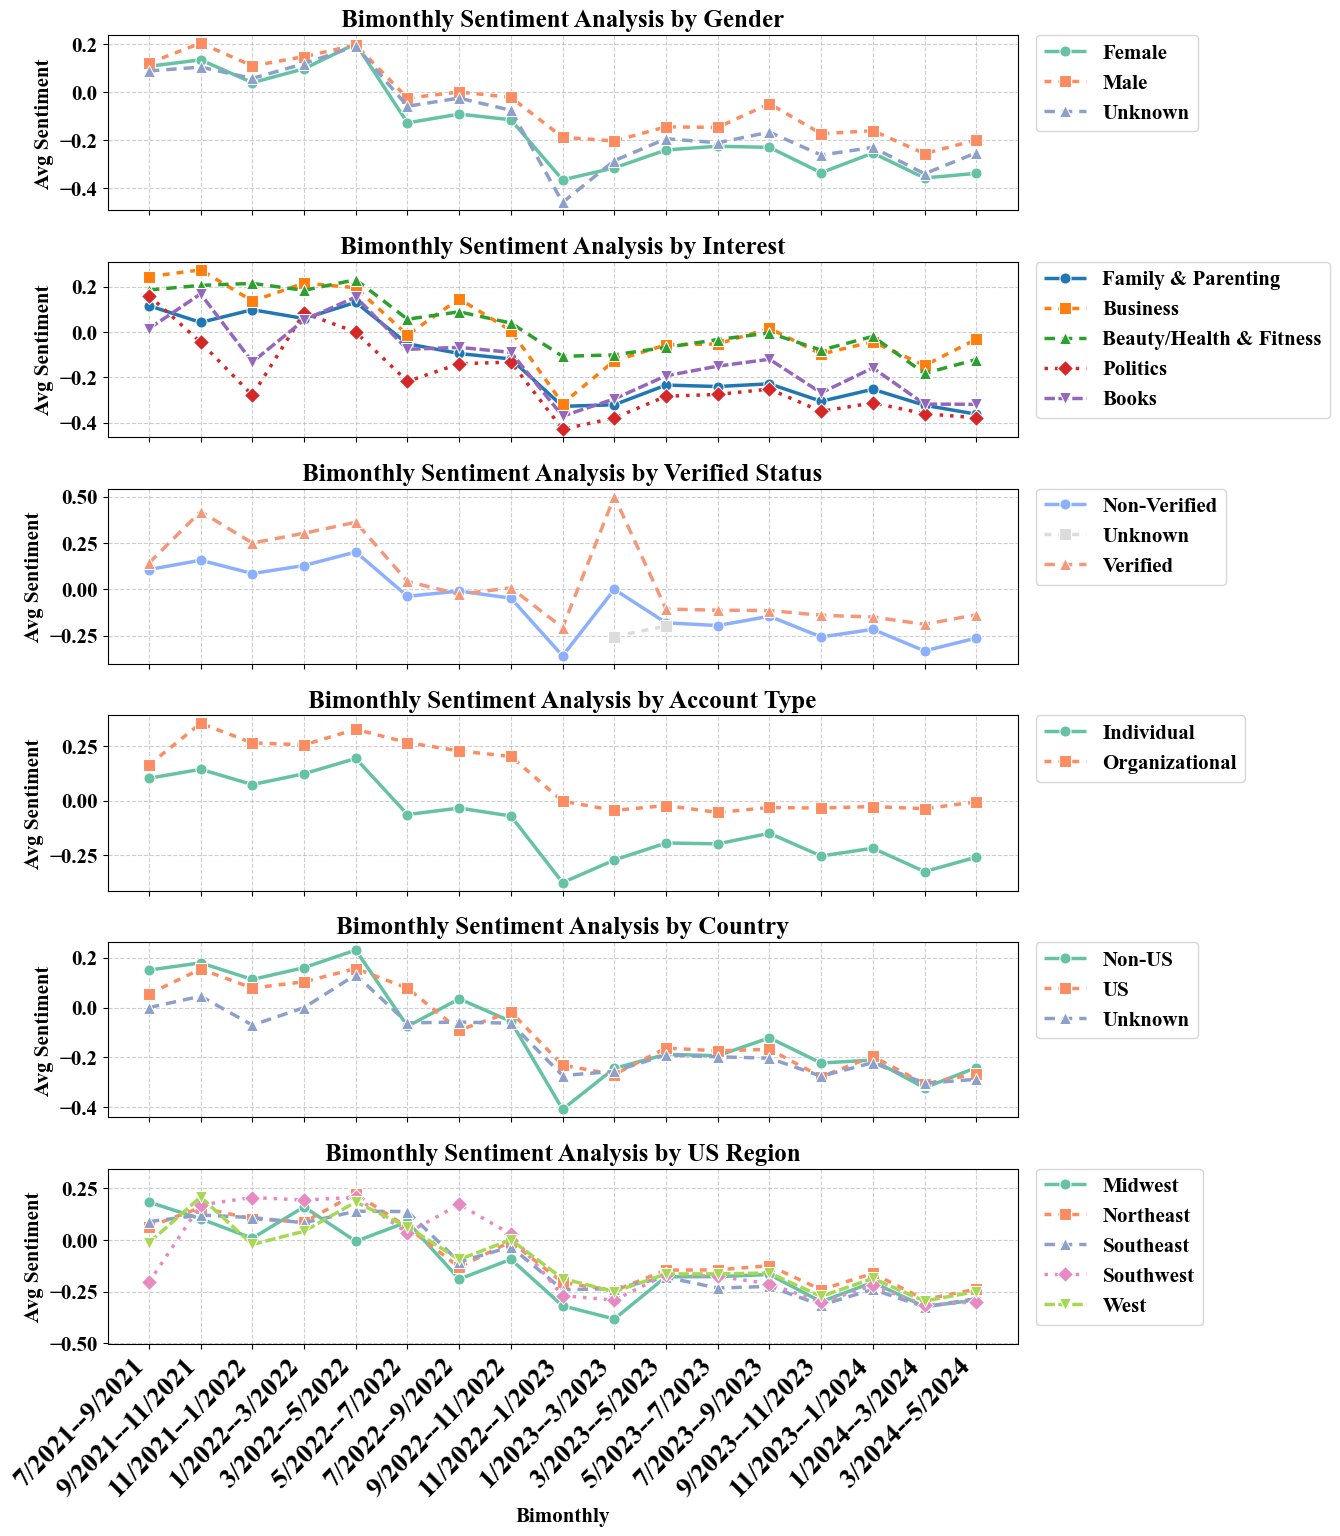
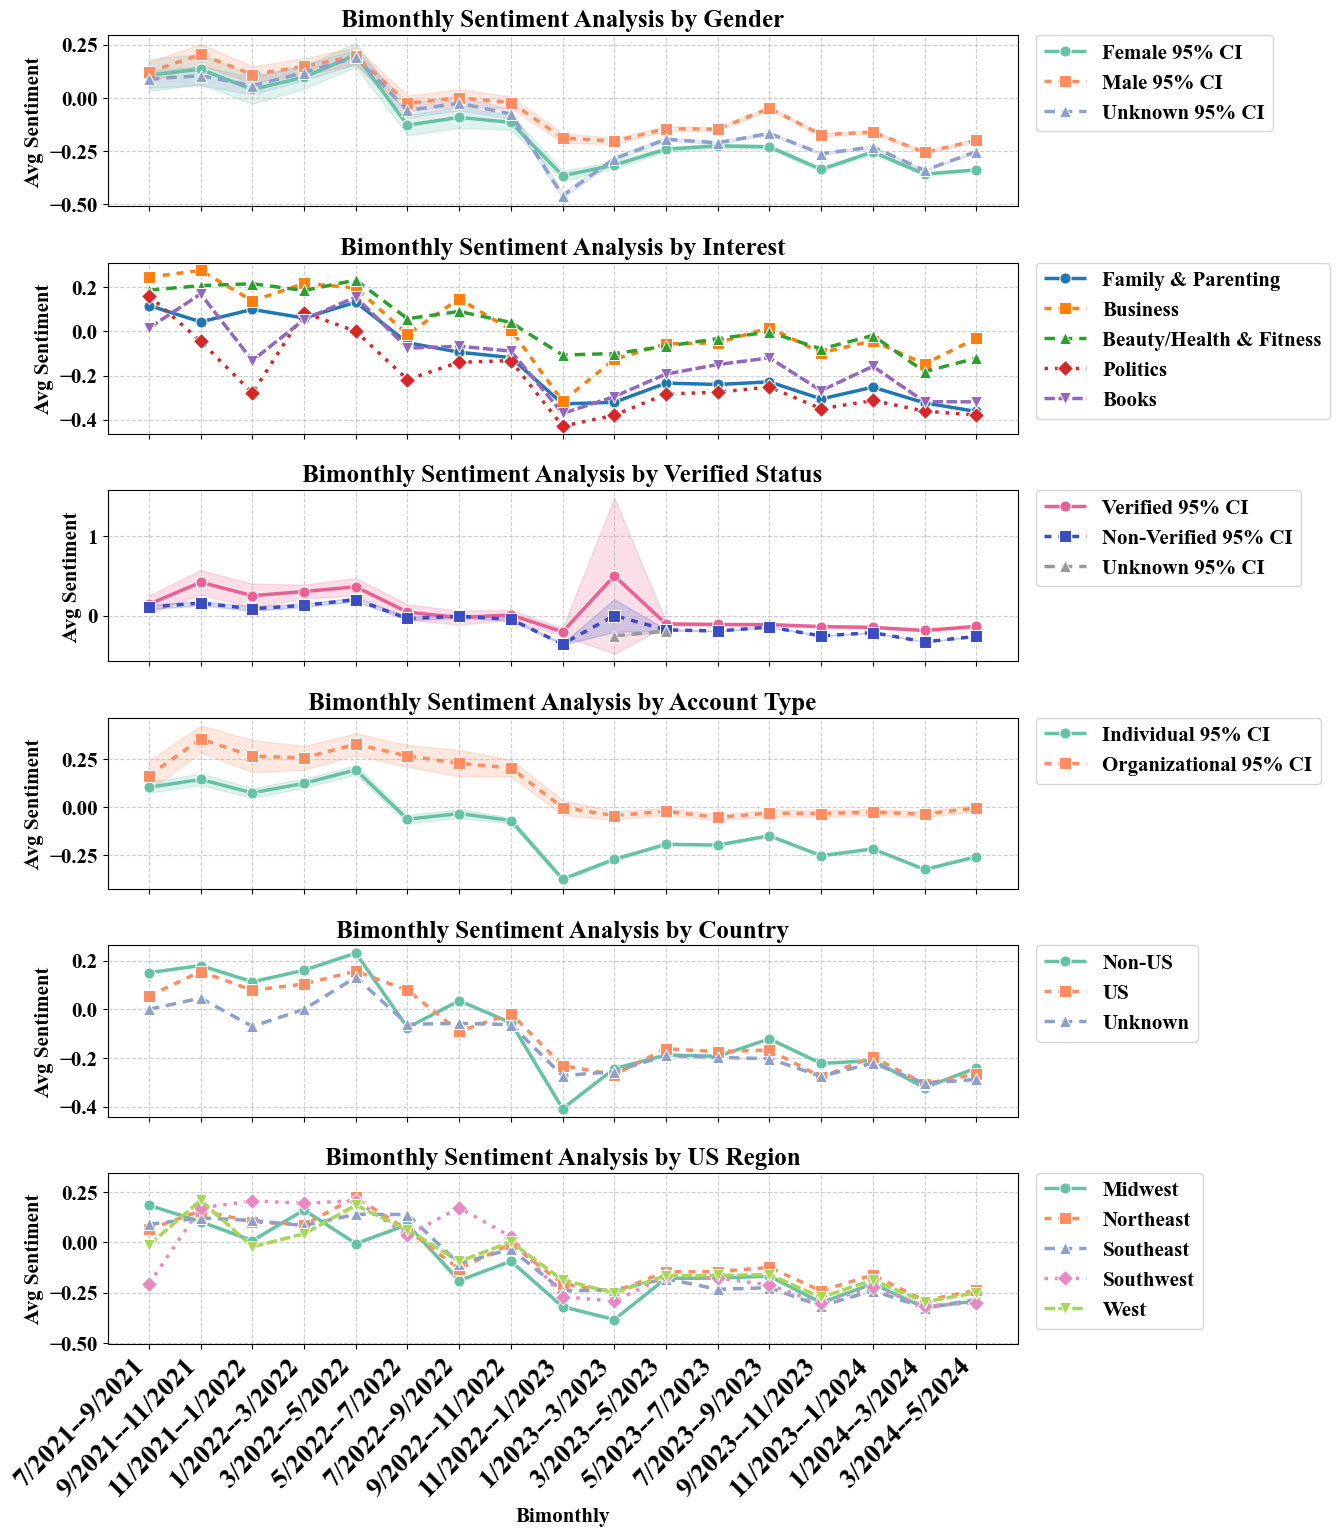
3 decimal, fig2 95% ci

diff --git a/bimonthly_visualization_analysis.py b/bimonthly_visualization_analysis.py
@@ -26,16 +26,18 @@ df['Date'] = pd.to_datetime(df['Date'], errors='coerce')
 df = df.dropna(subset=['Date'])
 
 df['Gender'] = df['Gender'].replace({
-    'male': 'Male',
-    'female': 'Female',
-    'unknown': 'Unknown'
+    'male': 'Male 95% CI',
+    'female': 'Female 95% CI',
+    'unknown': 'Unknown 95% CI'
 })
 # Standardize Account_Type
 df['Account Type'] = df['Account Type'].replace({
-    'individual': 'Individual',
-    'organisational': 'Organizational',
-    'unknown': 'Unknown'
+    'individual': 'Individual 95% CI',
+    'organisational': 'Organizational 95% CI',
+    'unknown': 'Unknown 95% CI'
 })
+
+
 bin_edges = pd.date_range(start="2021-01-01", end="2024-12-30", freq="2MS")
 labels = [f"{bin_edges[i].month}/{bin_edges[i].year}--{bin_edges[i + 1].month}/{bin_edges[i + 1].year}" for i in range(len(bin_edges) - 1)]
 df['Bimonthly'] = pd.cut(df['Date'], bins=bin_edges, labels=labels, right=True)
@@ -86,7 +88,11 @@ df['Twitter Verified'] = df['Twitter Verified'].replace({
     "false": "Non-Verified", "f": "Non-Verified", "no": "Non-Verified", "unverified": "Non-Verified",
     "": "Unknown", "unknown": "Unknown", "nan": "Unknown", "none": "Unknown"
 })
-
+df['Twitter Verified'] = df['Twitter Verified'].replace({
+    'Verified': 'Verified 95% CI',
+    'Non-Verified': 'Non-Verified 95% CI',
+    'Unknown': 'Unknown 95% CI'
+})
 unknown_verified_df = df[df['Twitter Verified'] == "Unknown"]
 print(unknown_verified_df['Date'])
 
@@ -151,6 +157,21 @@ grouped_region = (
 print(grouped_region.head())
 grouped_region = grouped_region.dropna(subset=['mean_sentiment'])
 
+#-----------------------------------------------------
+# === HELPER FUNCTION: COMPUTE 95% CI ===
+def compute_ci(data, group_cols, value_col='mean_sentiment'):
+    stats = data.groupby(group_cols)[value_col].agg(['mean', 'std', 'count']).reset_index()
+    stats['sem'] = stats['std'] / np.sqrt(stats['count'])
+    stats['ci95'] = 1.96 * stats['sem']
+    return stats.rename(columns={'mean': 'mean_sentiment'})
+
+# === GROUPING ===
+gender_stats = compute_ci(df, ['Gender', 'Bimonthly'])
+verified_stats = compute_ci(df, ['Twitter Verified', 'Bimonthly'])
+account_stats = compute_ci(df, ['Account Type', 'Bimonthly'])
+country_stats = compute_ci(df, ['Country', 'Bimonthly'])
+#-----------------------------------------------------
+
 # Plotting
 fig, axes = plt.subplots(6, 1, figsize=(14, 16), sharex=True)
 gender_styles = ['-', '--', ':']
@@ -167,15 +188,26 @@ def style_subplot(ax, title):
     ax.legend(title_fontsize=15, fontsize=15, bbox_to_anchor=(1.02, 1), loc='upper left', fontweight='bold')
 
 # Plot 1: Gender-based analysis
-sns.lineplot(ax=axes[0], data=grouped_gender, x='Bimonthly', y='mean_sentiment', 
+sns.lineplot(ax=axes[0], data=gender_stats, x='Bimonthly', y='mean_sentiment', 
              hue='Gender', style='Gender',
              markers=['o', 's', '^'], dashes=[(1, 0), (2, 2), (3, 2)],
              markersize=8, linewidth=2.5, palette='Set2')
 
+# Add CI bands without adding duplicate legend entries
+for gender, grp in gender_stats.groupby('Gender'):
+    axes[0].fill_between(grp['Bimonthly'], 
+                         grp['mean_sentiment'] - grp['ci95'], 
+                         grp['mean_sentiment'] + grp['ci95'],
+                         alpha=0.2, 
+                         color=sns.color_palette('Set2')[list(gender_stats['Gender'].unique()).index(gender)],
+                         label=None)  
+
 axes[0].set_title("Bimonthly Sentiment Analysis by Gender", fontsize=18, fontweight='bold')
 axes[0].set_ylabel("Avg Sentiment", fontsize=15, fontweight='bold')
-axes[0].legend(title='Gender')
 axes[0].grid(visible=True, linestyle='--', alpha=0.6)
+axes[0].legend(title='Gender', loc='upper left', bbox_to_anchor=(1.02, 1))
+
+    
 
 # Plot 2: Interest-based analysis (choose top 5 interests for clarity)
 # Calculate the total popularity for each interest
@@ -208,25 +240,58 @@ axes[1].legend(title='Interest')
 axes[1].grid(visible=True, linestyle='--', alpha=0.6)
 
 # Plot 3: Verified vs Non-Verified Users Analysis
-sns.lineplot(ax=axes[2], data=grouped_verified, x='Bimonthly', y='mean_sentiment',
+# Define fixed palette mapping
+
+verified_order = ['Verified 95% CI', 'Non-Verified 95% CI', 'Unknown 95% CI']
+verified_palette = {
+    'Verified 95% CI': '#EA5F94',
+    'Non-Verified 95% CI': '#3B4CC0',
+    'Unknown 95% CI': '#999999'
+}
+
+sns.lineplot(ax=axes[2], data=verified_stats, x='Bimonthly', y='mean_sentiment',
              hue='Twitter Verified', style='Twitter Verified',
+             hue_order=verified_order, style_order=verified_order,
              markers=['o', 's', '^'], dashes=[(1, 0), (2, 2), (3, 2)],
-             markersize = 8, linewidth=2.5, palette='coolwarm')
+             markersize=8, linewidth=2.5, palette=verified_palette)
+
+# Add CI bands manually
+for status in verified_order:
+    grp = verified_stats[verified_stats['Twitter Verified'] == status].dropna(subset=['mean_sentiment', 'ci95'])
+    
+    if not grp.empty:
+        axes[2].fill_between(grp['Bimonthly'],
+                             grp['mean_sentiment'] - grp['ci95'],
+                             grp['mean_sentiment'] + grp['ci95'],
+                             alpha=0.2,
+                             color=verified_palette[status],
+                             label=None)
+
+
+# Final styling
 axes[2].set_title("Bimonthly Sentiment Analysis by Verified Status", fontsize=18, fontweight='bold')
 axes[2].set_ylabel("Avg Sentiment", fontsize=15, fontweight='bold')
-axes[2].legend(title='Twitter Verified')
 axes[2].grid(visible=True, linestyle='--', alpha=0.6)
+axes[2].legend(title='Twitter Verified', loc='upper left', bbox_to_anchor=(1.02, 1))
 
 # Plot 4: Account Type Temporal Sentiment Analysis
-sns.lineplot(ax=axes[3], data=grouped_account, x='Bimonthly', y='mean_sentiment',
+sns.lineplot(ax=axes[3], data=account_stats, x='Bimonthly', y='mean_sentiment',
              hue='Account Type', style='Account Type',
-             markers=['o', 's', '^', 'D'], 
-             dashes=[(1, 0), (2, 2), (3, 2), (1, 2)],
+             markers=['o', 's'],  # Only keep markers for known categories
+             dashes=[(1, 0), (2, 2)],
              markersize=8, linewidth=2.5, palette='Set2')
+for i, (acct_type, grp) in enumerate(account_stats.groupby('Account Type')):
+    axes[3].fill_between(grp['Bimonthly'],
+                         grp['mean_sentiment'] - grp['ci95'],
+                         grp['mean_sentiment'] + grp['ci95'],
+                         alpha=0.2,
+                         color=sns.color_palette('Set2')[i],
+                         label=None)  # Avoid extra legend lines
+
 axes[3].set_title("Bimonthly Sentiment Analysis by Account Type", fontsize=18, fontweight='bold')
 axes[3].set_ylabel("Avg Sentiment", fontsize=15, fontweight='bold')
-axes[3].legend(title='Account Type')
 axes[3].grid(visible=True, linestyle='--', alpha=0.6)
+axes[3].legend(title='Account Type', loc='upper left', bbox_to_anchor=(1.02, 1))
 
 
 # Plot 5: Country (US vs Non-US)
@@ -271,4 +336,3 @@ plt.tight_layout(pad=2, h_pad=1)  # h_pad adjusts vertical spacing between subpl
 output_dir = "output/bimonthly/"
 plt.savefig(f"{output_dir}bimonthly_gender_interest_sentiment_analysis.V1.png",bbox_inches='tight')
 plt.show()
-

diff --git a/95% confidence intervals.py b/95% confidence intervals.py
@@ -1,5 +1,6 @@
 #remove unknowns from the analysis
 # Effect size + 95% confidence intervals + t-tests for subpopulations
+# I have 2 inputs: 1. INPUT_Per_Tweets 2.per user INPUT_Grouped_By_USER each time I am commenting 1
 import pandas as pd
 import numpy as np
 import seaborn as sns
@@ -14,12 +15,16 @@ import os
 #df['Date'] = pd.to_datetime(df['Date'], errors='coerce')
 #df = df.dropna(subset=['Date'])
 
-INPUT_Grouped_By_USER = "data/grouped2_data.pkl"
-#INPUT_Per_Tweets      = "data/normalized_data.pkl"
+
+## This script can use two types of input data:1. INPUT_Per_Tweets – data at the tweet level 2. INPUT_Grouped_By_USER – data aggregated per user.
+#  Only one input should be active at a time; comment out the other as needed.
+#INPUT_Grouped_By_USER = "data/grouped2_data.pkl"    
+INPUT_Per_Tweets      = "data/normalized_data.pkl"
 
 
 # -------- Load --------
-df = pd.read_pickle(INPUT_Grouped_By_USER)
+#INPUT_Per_Tweets or INPUT_Grouped_By_USER 
+df = pd.read_pickle(INPUT_Per_Tweets)
 
 # -------- Helpers --------
 def clean_str(x):
@@ -110,6 +115,12 @@ comparison_df.to_csv("output/ITS/effect_size_and_ci_results.csv", index=False)
 print("\n--- Effect Sizes & Confidence Intervals ---")
 print(comparison_df)
 
+# Round all numeric columns to 3 decimals, except counts
+numeric_cols = comparison_df.select_dtypes(include=[np.number]).columns
+comparison_df[numeric_cols] = comparison_df[numeric_cols].round(3)
+#comparison_df.to_csv("output/ITS/effect_size_and_ci_results.csv", index=False)
 
+print("\n--- Effect Sizes & 95% Confidence Intervals (Rounded to 3 Decimals) ---")
+print(comparison_df)
 
 # ------------------

diff --git a/analysis/regional2.py b/analysis/regional2.py
@@ -1,3 +1,5 @@
+# table 4: Country and Regional sentiment means
+
 import pandas as pd
 import numpy as np
 from pathlib import Path
@@ -6,12 +8,16 @@ if __name__ == "__main__":
     RegionalRoot = Path("output/regional")
     CountryRoot  = Path("output/country")
 
+ #------------4 df inputs : -----------------------------------
+ # 1. grouped2_data.pkl 2. normalized_data.pkl 3. grouped2_data_removed_retweets.pkl 4. processed_data.pkl
+ # Outcoments one df each time
+ #-------------------------------------------------------------
     df = pd.read_pickle("../data/normalized_data.pkl") # all tweets and retweets
-    df = df[df['Engagement Type'] != 'RETWEET'] # remove retweets
+    #df = df[df['Engagement Type'] != 'RETWEET'] # remove retweets
     #df = pd.read_pickle("../data/grouped2_data.pkl") # all tweets and retweets grouped by user
     #df= pd.read_pickle("../data/grouped2_data_removed_retweets.pkl") # all tweets without retweets grouped by user
     #df = pd.read_pickle("../data/grouped2_data.pkl").copy()
-
+#-----------------------------------------------------------
     
     # Normalize Region text and exclude Unknown/Other/blank + NaN
     df['Region'] = df['Region'].astype(str).str.strip()
@@ -31,7 +37,6 @@ if __name__ == "__main__":
 
     df["Country"] = df["Region"].apply(map_country)
 
-    # keep only US / Non-US (drop Unknown to match your region filtering style)
     df_country = df[df["Country"].isin(["US", "Non-US", "Unknown"])].copy()
 
     country_group = (

diff --git a/analysis/account_type2.py b/analysis/account_type2.py
@@ -1,4 +1,6 @@
 
+# Calculate sentiment statistics by account type and save to CSV. 
+# 4 inputs df: 1. tweets with retweets, 2. tweets without retweets, 3. grouped by user with retweets, 4. grouped by user without retweets. 
 import pandas as pd
 import numpy as np
 import os
@@ -17,10 +19,13 @@ import math
 from pathlib import Path
 if __name__ == "__main__":
     output_root = "output/account_type"
+    
+    #--------------- Uncomment one of the following lines to choose the input data file----------------------
     #df = pd.read_pickle("../data/normalized_data.pkl") # all tweets and retweets
     #df = df[df['Engagement Type'] != 'RETWEET'] # remove retweets
     #df = pd.read_pickle("../data/grouped2_data.pkl") # all tweets and retweets grouped by user
     df= pd.read_pickle("../data/grouped2_data_removed_retweets.pkl") # all tweets without retweets grouped by user
+    #------------------------------------------------------------------------------------------------------
     df = df.dropna(subset=['Account_Type'])
     account_type_stats = df.groupby('Account_Type')['mean_sentiment'].agg(['mean', 'std']).reset_index()
     account_type_stats.columns = ['Account_Type', 'Mean_Sentiment', 'Std_Sentiment']

diff --git a/analysis/verified_users2.py b/analysis/verified_users2.py
@@ -1,3 +1,5 @@
+# 1.  VERIFIED USER DESCRIPTIVE STATISTICS
+# df is input data frame. we might have 4: 1.per tweet , 2.per user 3.per tweet without retweets 4.per user without retweets. Each time we uncomment the relevant df loading line:
 import pandas as pd
 import numpy as np
 from scipy import stats
@@ -7,9 +9,9 @@ from statsmodels.formula.api import ols
 import statsmodels.api as sm
 import os
 if __name__ == "__main__":
-    df = pd.read_pickle("../data/normalized_data.pkl") # all tweets and retweets
-    df = df[df['Engagement Type'] != 'RETWEET'] # remove retweets
-    #df = pd.read_pickle("../data/grouped2_data.pkl") # all tweets and retweets grouped by author
+    #df = pd.read_pickle("../data/normalized_data.pkl") # all tweets and retweets
+    #df = df[df['Engagement Type'] != 'RETWEET'] # remove retweets
+    df = pd.read_pickle("../data/grouped2_data.pkl") # all tweets and retweets grouped by author
     #df= pd.read_pickle("../data/grouped2_data_removed_retweets.pkl") # all tweets without retweets grouped by author
     output_root = "output/verified"  
     

diff --git a/analysis/gender2.py b/analysis/gender2.py
@@ -1,4 +1,5 @@
 #1.  CALCULATE OVERALL SENTIMENT 2. gender DESCRIPTIVE STATISTICS
+#df is input data frame. we might have 4: 1.per tweet , 2.per user 3.per tweet without retweets 4.per user without retweets. 
 import pandas as pd
 import numpy as np
 import pandas as pd
@@ -19,9 +20,12 @@ if __name__ == "__main__":
     output_dir = "output/gender/"
     if not os.path.exists(output_dir):
         os.makedirs(output_dir)
+    #--------------------------
+    #Each time we uncomment the relevant df loading line:
+    #--------------------------
     df = pd.read_pickle("../data/normalized_data.pkl")
     #df = df[df['Engagement Type'] != 'RETWEET']
-    df = pd.read_pickle("../data/grouped2_data.pkl")
+    #df = pd.read_pickle("../data/grouped2_data.pkl")
     #df= pd.read_pickle("../data/grouped2_data_removed_retweets.pkl")
     #--------------------------
     df = df.dropna(subset=['mean_sentiment'])
